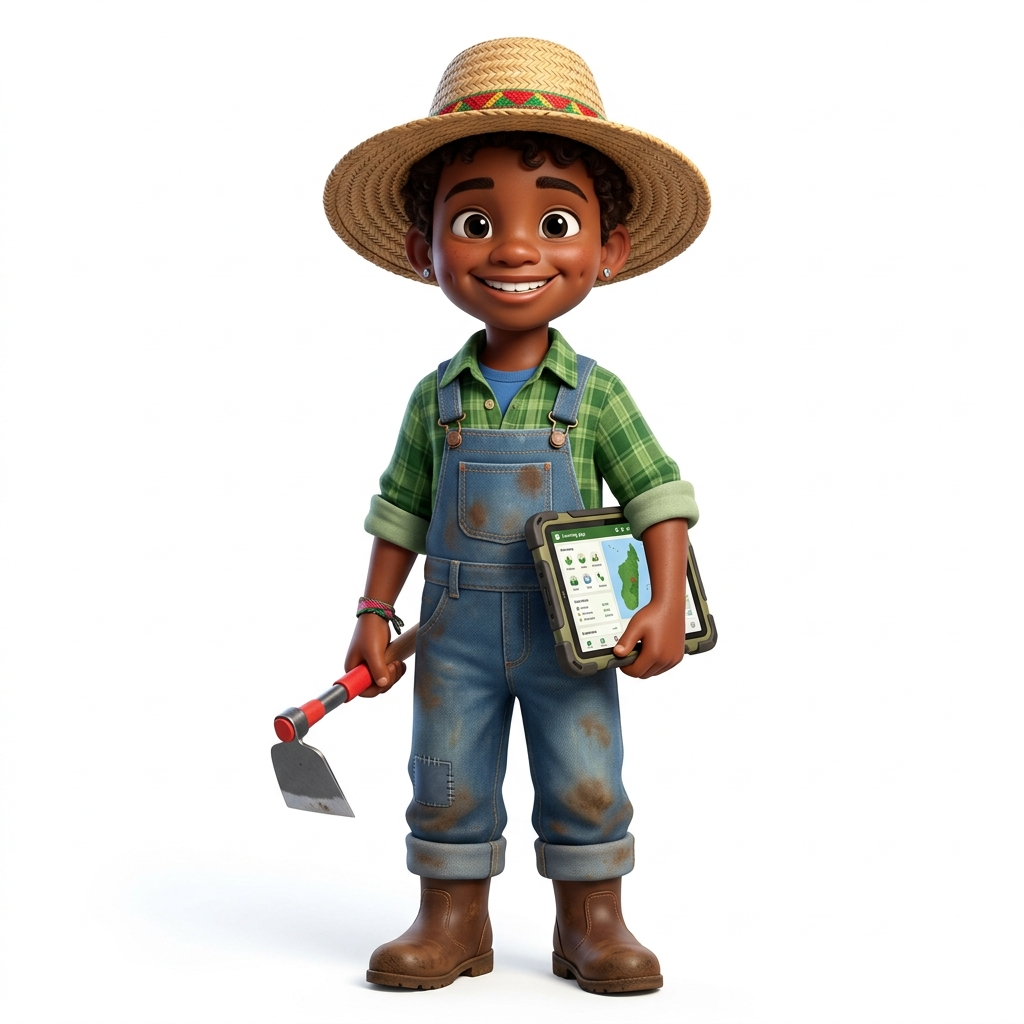
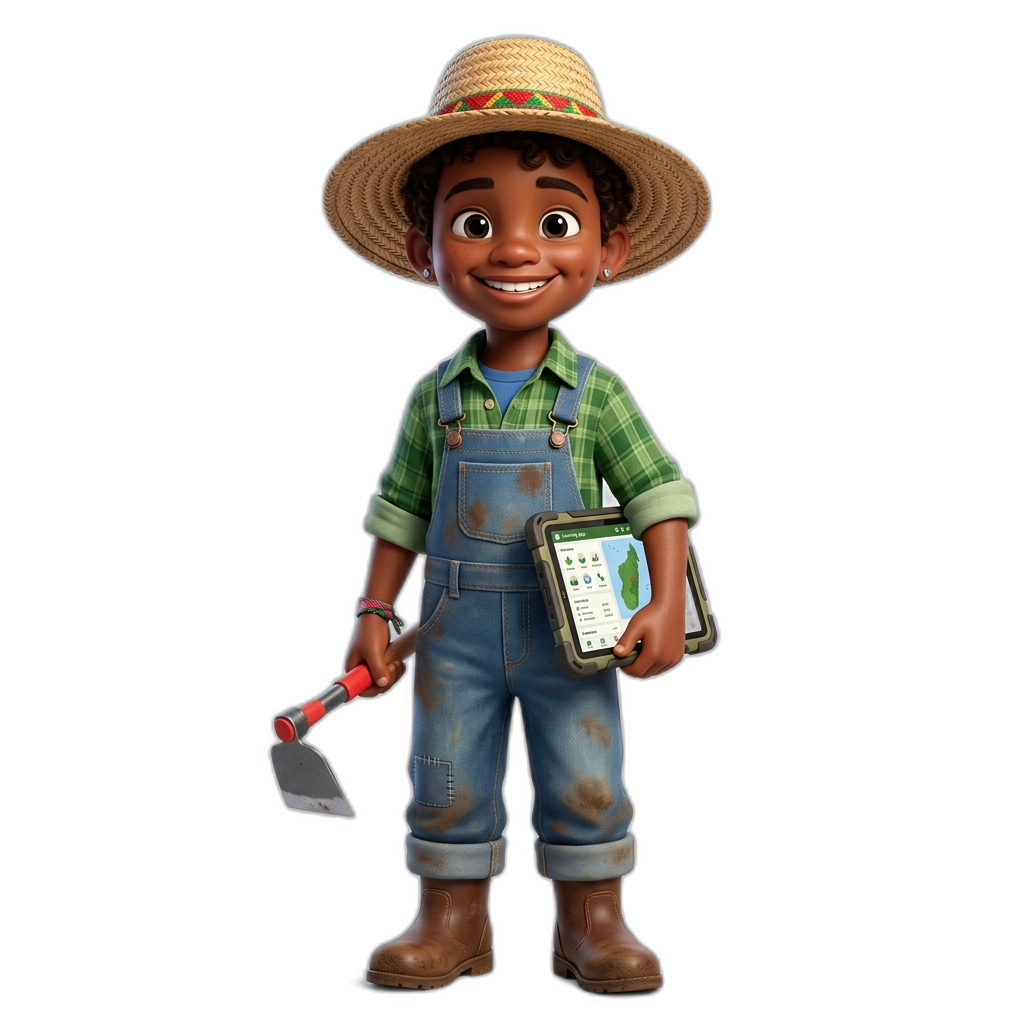
Make farmer image transparent and add complex 3D breathing animation

diff --git a/src/components/agrisense/splash-screen.tsx b/src/components/agrisense/splash-screen.tsx
@@ -71,18 +71,36 @@ export function SplashScreen({ onFinish }: SplashScreenProps) {
         className="absolute bottom-0 left-0 w-[40rem] h-[40rem] bg-emerald-600/20 rounded-full blur-[120px] translate-y-1/3 -translate-x-1/3 pointer-events-none"
       />
       
-      {/* 3D Farmer Image (Floats smoothly) */}
-      <motion.div
-        animate={{ y: [0, -15, 0] }}
-        transition={{ duration: 4, repeat: Infinity, ease: 'easeInOut' }}
-        className="relative z-10 w-48 h-48 sm:w-56 sm:h-56 mt-12 mb-8 drop-shadow-[0_20px_30px_rgba(16,185,129,0.3)]"
-      >
-        <img 
-          src="/assets/farmer_3d.png" 
-          alt="3D Farmer Mascot" 
-          className="w-full h-full object-contain"
+      {/* 3D Farmer Image (Floats, Breathes, and Swings) */}
+      <div className="relative z-10 mt-12 mb-8 flex flex-col items-center">
+        <motion.div
+          animate={{ 
+            y: [0, -18, 0],
+            rotateZ: [-2, 2, -2]
+          }}
+          transition={{ duration: 4, repeat: Infinity, ease: 'easeInOut' }}
+          className="w-56 h-56 sm:w-64 sm:h-64 drop-shadow-[0_20px_40px_rgba(16,185,129,0.4)] relative z-10"
+        >
+          <motion.img 
+            src="/assets/farmer_3d.png" 
+            alt="3D Farmer Mascot" 
+            className="w-full h-full object-contain"
+            animate={{ 
+              scaleY: [1, 1.02, 1], 
+              scaleX: [1, 0.99, 1] 
+            }}
+            transition={{ duration: 2, repeat: Infinity, ease: 'easeInOut' }}
+            style={{ transformOrigin: 'bottom center' }}
+          />
+        </motion.div>
+        
+        {/* Dynamic Floor Shadow */}
+        <motion.div 
+          animate={{ scale: [1, 0.7, 1], opacity: [0.6, 0.2, 0.6] }}
+          transition={{ duration: 4, repeat: Infinity, ease: 'easeInOut' }}
+          className="w-28 h-5 bg-black/80 blur-md rounded-[100%] absolute -bottom-4 z-0"
         />
-      </motion.div>
+      </div>
 
       <div className="relative z-10 flex flex-col items-center justify-between w-full max-w-md px-6 flex-1 pb-12">
         

diff --git a/remove_bg.py b/remove_bg.py
@@ -1,0 +1,19 @@
+import sys
+from rembg import remove
+from PIL import Image
+
+def process_image(input_path, output_path):
+    print(f"Processing {input_path}...")
+    try:
+        input_image = Image.open(input_path)
+        output_image = remove(input_image)
+        output_image.save(output_path, "PNG")
+        print(f"Saved to {output_path}")
+    except Exception as e:
+        print(f"Error: {e}")
+
+if __name__ == "__main__":
+    if len(sys.argv) != 3:
+        print("Usage: python remove_bg.py <input> <output>")
+        sys.exit(1)
+    process_image(sys.argv[1], sys.argv[2])